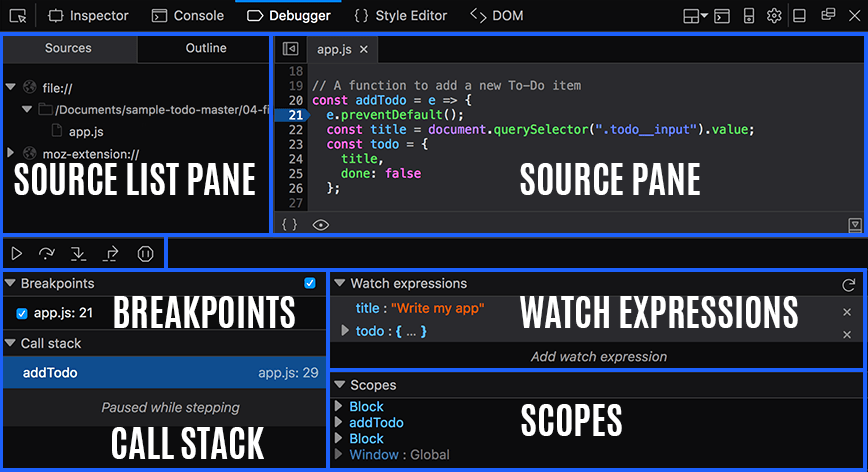
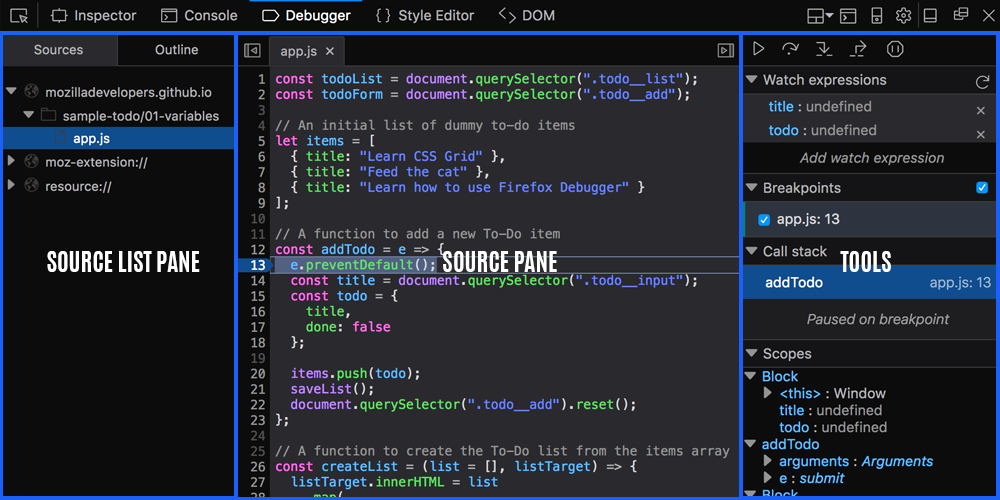
Typos & image changes.

diff --git a/src/pages/debugger/05-learn-more.js b/src/pages/debugger/05-learn-more.js
@@ -8,13 +8,17 @@ const Tutorial = () => (
 
     <p>
       Hopefully, through these tutorials and examples, you discovered how powerful the Firefox
-      Debugger can be for debugging your JavaScript code. There is nothing wrong with using
+      Debugger can be for debugging your JavaScript code. There is nothing wrong with using{' '}
       <code>console.log</code>, but it should just be one of the many tools in your toolbelt.{' '}
     </p>
 
     <p>
       If you want to learn more about Firefox Debugger, check out the{' '}
-      <a href="https://developer.mozilla.org/docs/Tools/Debugger" target="_blank" rel="noreferrer noopener">
+      <a
+        href="https://developer.mozilla.org/docs/Tools/Debugger"
+        target="_blank"
+        rel="noreferrer noopener"
+      >
         Firefox Debugger Documentation on MDN
       </a>.
     </p>
@@ -23,15 +27,19 @@ const Tutorial = () => (
       Mozilla recently rebuilt Firefox Debugger from the ground-up using React and Redux. This new
       Debugger is designed to be approachable, yet powerful. And the best part? It is completely
       hackable. It is available right now in Firefox Quantum.{' '}
-      <a href="https://github.com/devtools-html/debugger.html" target="_blank" rel="noopener noreferrer">
+      <a
+        href="https://github.com/devtools-html/debugger.html"
+        target="_blank"
+        rel="noopener noreferrer"
+      >
         Check out the repository on GitHub
       </a>.
     </p>
 
     <p>
       That's a wrap! If you haven't yet, check out Firefox Developer Edition. It has the latest
-      features, is blazingly fast, and comes packed with all the development tools you need to
-      build for the open web.
+      features, is blazingly fast, and comes packed with all the development tools you need to build
+      for the open web.
     </p>
 
     <p>

diff --git a/src/pages/debugger/components/_Main.js b/src/pages/debugger/components/_Main.js
@@ -27,7 +27,7 @@ const Main = ({ currentPageNum, tutorial, homework }) => {
 
         {/* Facebook Meta */}
         <meta property="og:url" content="https://mozilladevelopers.github.io/playground/debugger" />
-        <meta property="og:title" content="🛑 Stop using console.log! 🛑" />
+        <meta property="og:title" content="Go beyond console.log!" />
         <meta
           property="og:description"
           content="Still using console.log for debugging JavaScript? There is a better way! Learn how to use Firefox Debugger to debug and fix your code."
@@ -38,7 +38,7 @@ const Main = ({ currentPageNum, tutorial, homework }) => {
         <meta name="twitter:card" content="summary_large_image" />
         <meta name="twitter:site" content="@firefox" />
         <meta name="twitter:creator" content="@firefox" />
-        <meta name="twitter:title" content="🛑 Stop using console.log! 🛑" />
+        <meta name="twitter:title" content="Go beyond console.log" />
         <meta
           name="twitter:description"
           content="Still using console.log for debugging JavaScript? There is a better way! Learn how to use Firefox Debugger to debug and fix your code."

diff --git a/src/pages/debugger/03-the-call-stack.js b/src/pages/debugger/03-the-call-stack.js
@@ -47,10 +47,9 @@ const Tutorial = () => (
     <p>
       In the previous section, we learned how to use the ‘Step Over’ button to step across lines of
       JavaScript code. We can use the 'Step Over’ button here, but when we reach the{' '}
-      <code>spliceItem</code>
-      function, it will execute the function and then move on to the next line. This is great, but
-      what if the problem exists inside that <code>spliceItem</code> function? This is where we can
-      use the ‘Step In’ button.
+      <code>spliceItem</code> function, it will execute the function and then move on to the next
+      line. This is great, but what if the problem exists inside that <code>spliceItem</code>{' '}
+      function? This is where we can use the ‘Step In’ button.
     </p>
 
     <ImgCaption src={stepin} alt="step in" caption="The 'step in' button in the toolbar" />

diff --git a/src/pages/debugger/index.js b/src/pages/debugger/index.js
@@ -6,6 +6,7 @@ import ImgCaption from '../../components/ImgCaption';
 
 // images
 import overview from './img/p1/overview.png';
+import tools from './img/p1/tools.png';
 
 const Tutorial = () => (
   <div>
@@ -51,12 +52,12 @@ const Tutorial = () => (
 
     <p>The tool pane can be broken down into five sections:</p>
 
-    <ImgCaption src={overview} alt="overview" caption="An overview of the Firefox Debugger Panel" />
+    <ImgCaption src={tools} alt="tools" caption="All of the tools available in the tools pane" />
 
     <p>
       <ul className="list">
         <li>
-          The <strong>toolbar</strong> section has buttons that control the debugger's movement through the
+          The <strong>toolbar</strong> has buttons that control the debugger's movement through the
           script.
         </li>
         <li>
